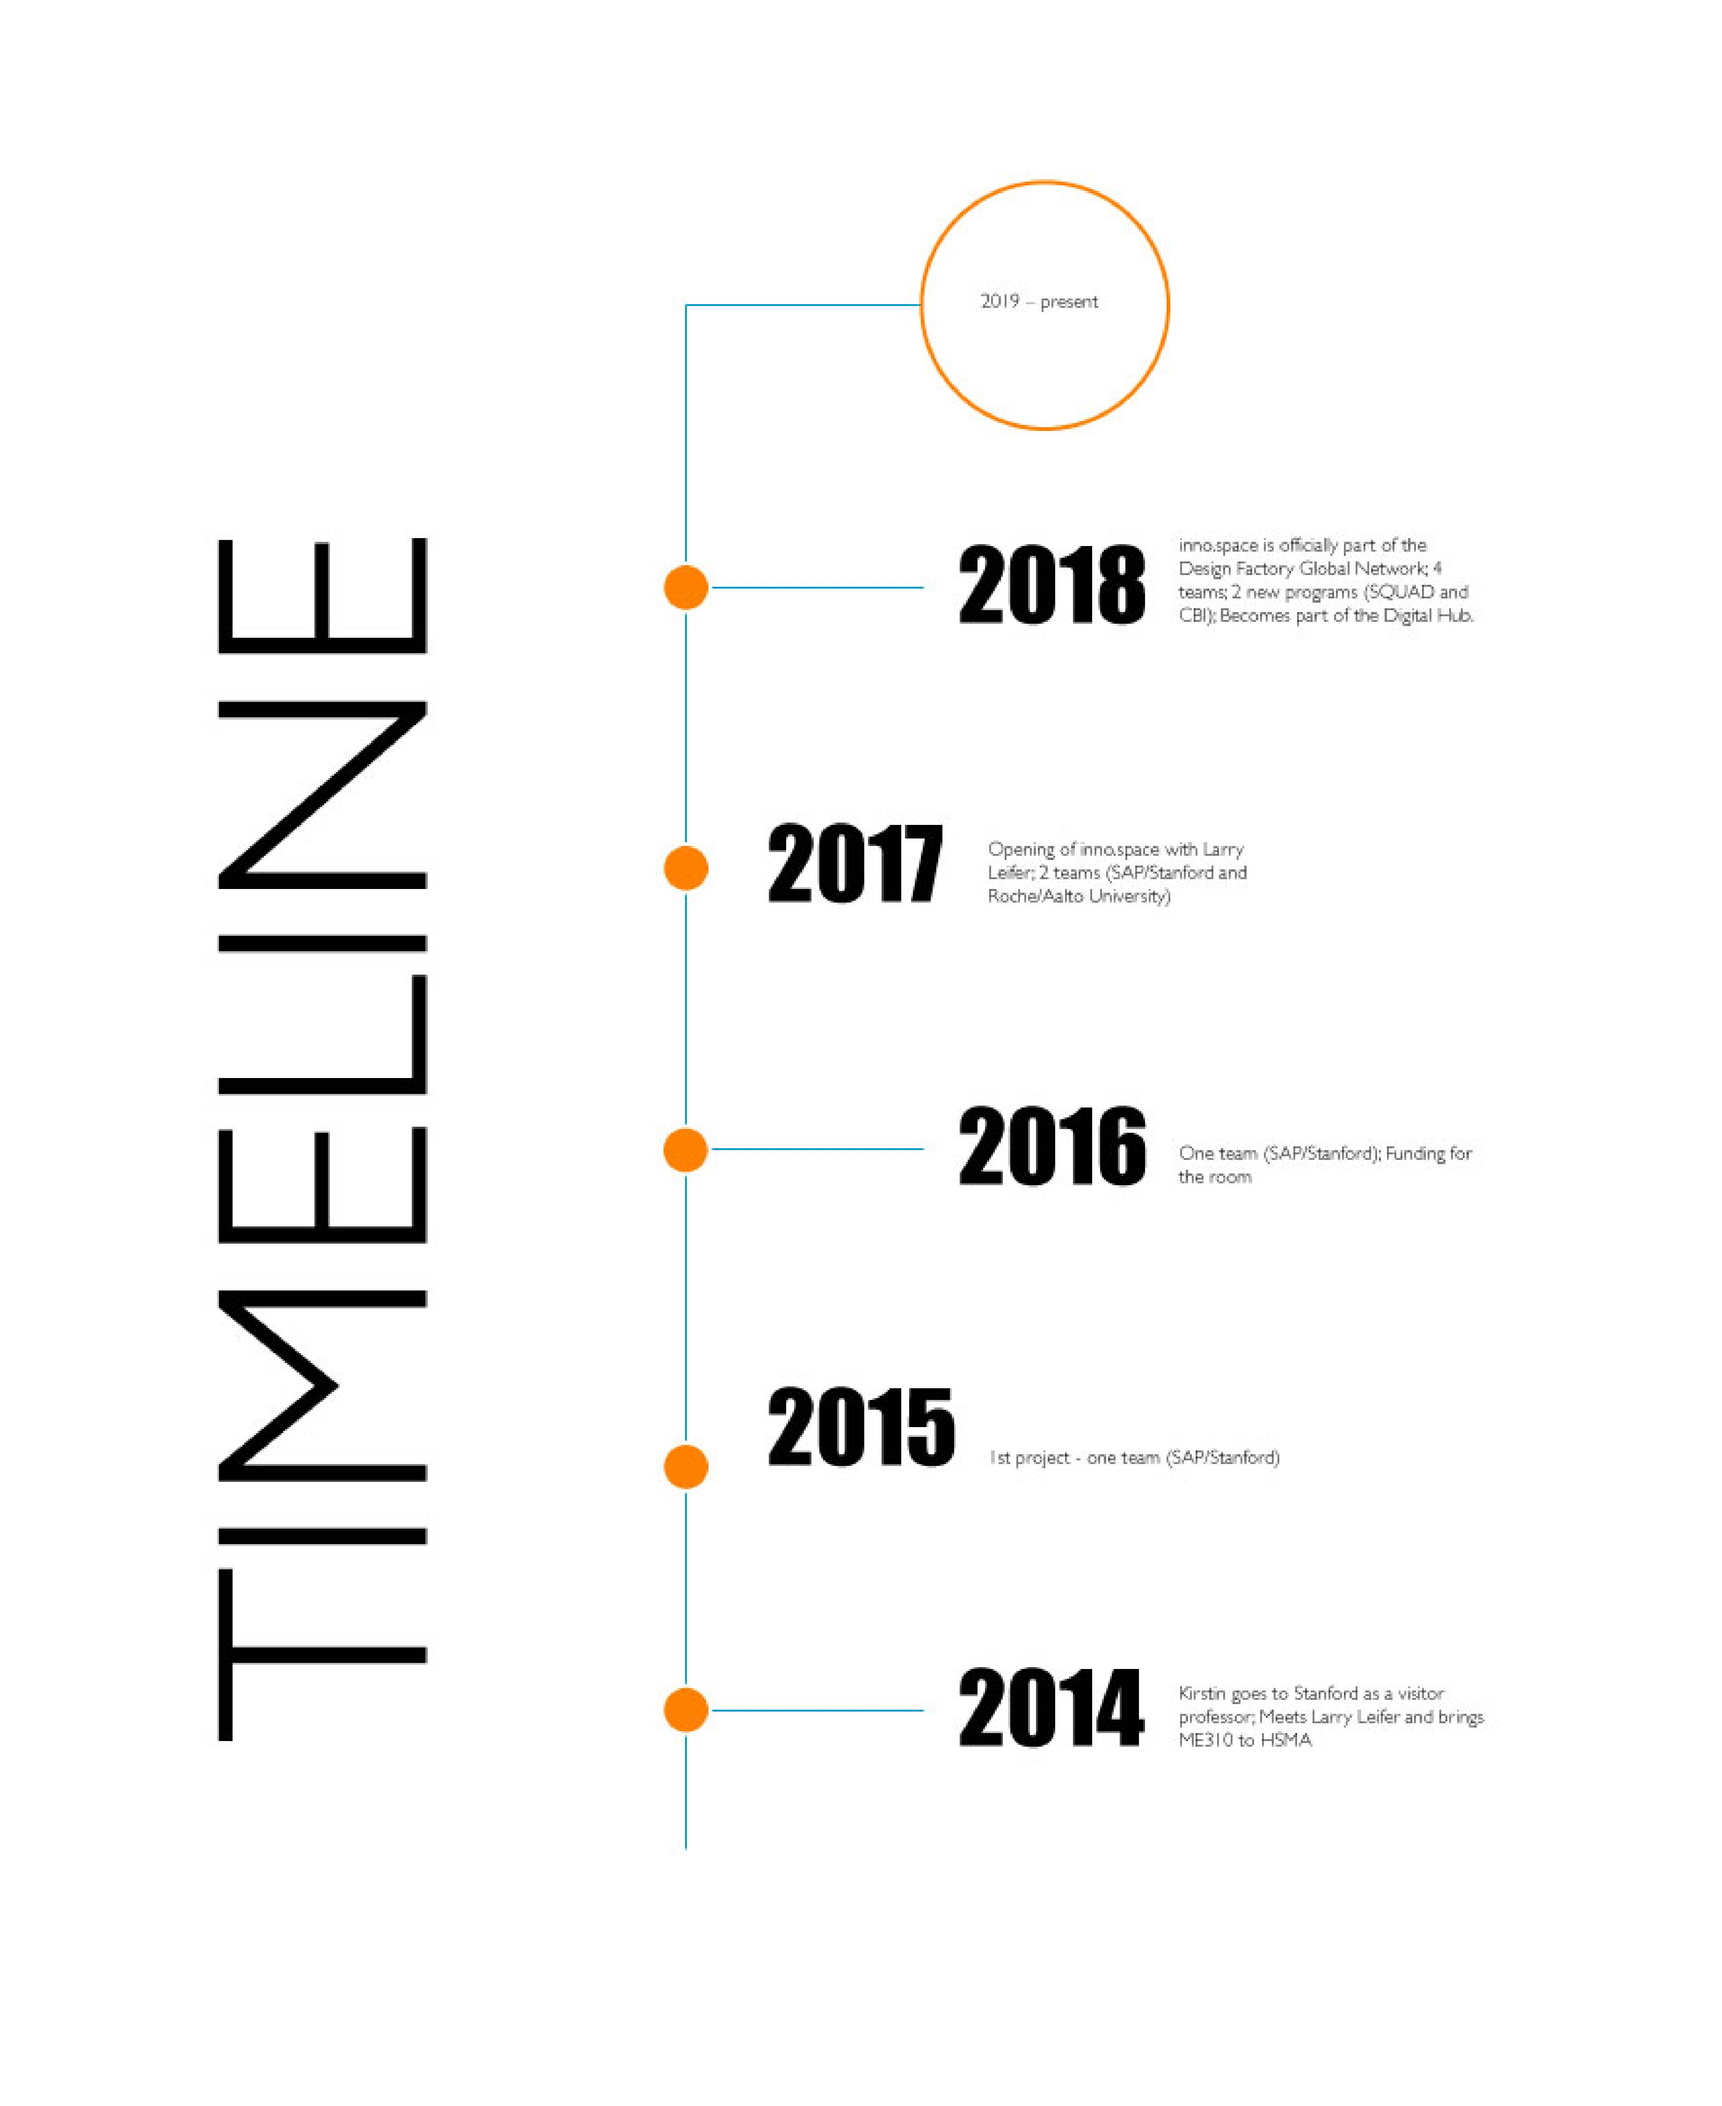
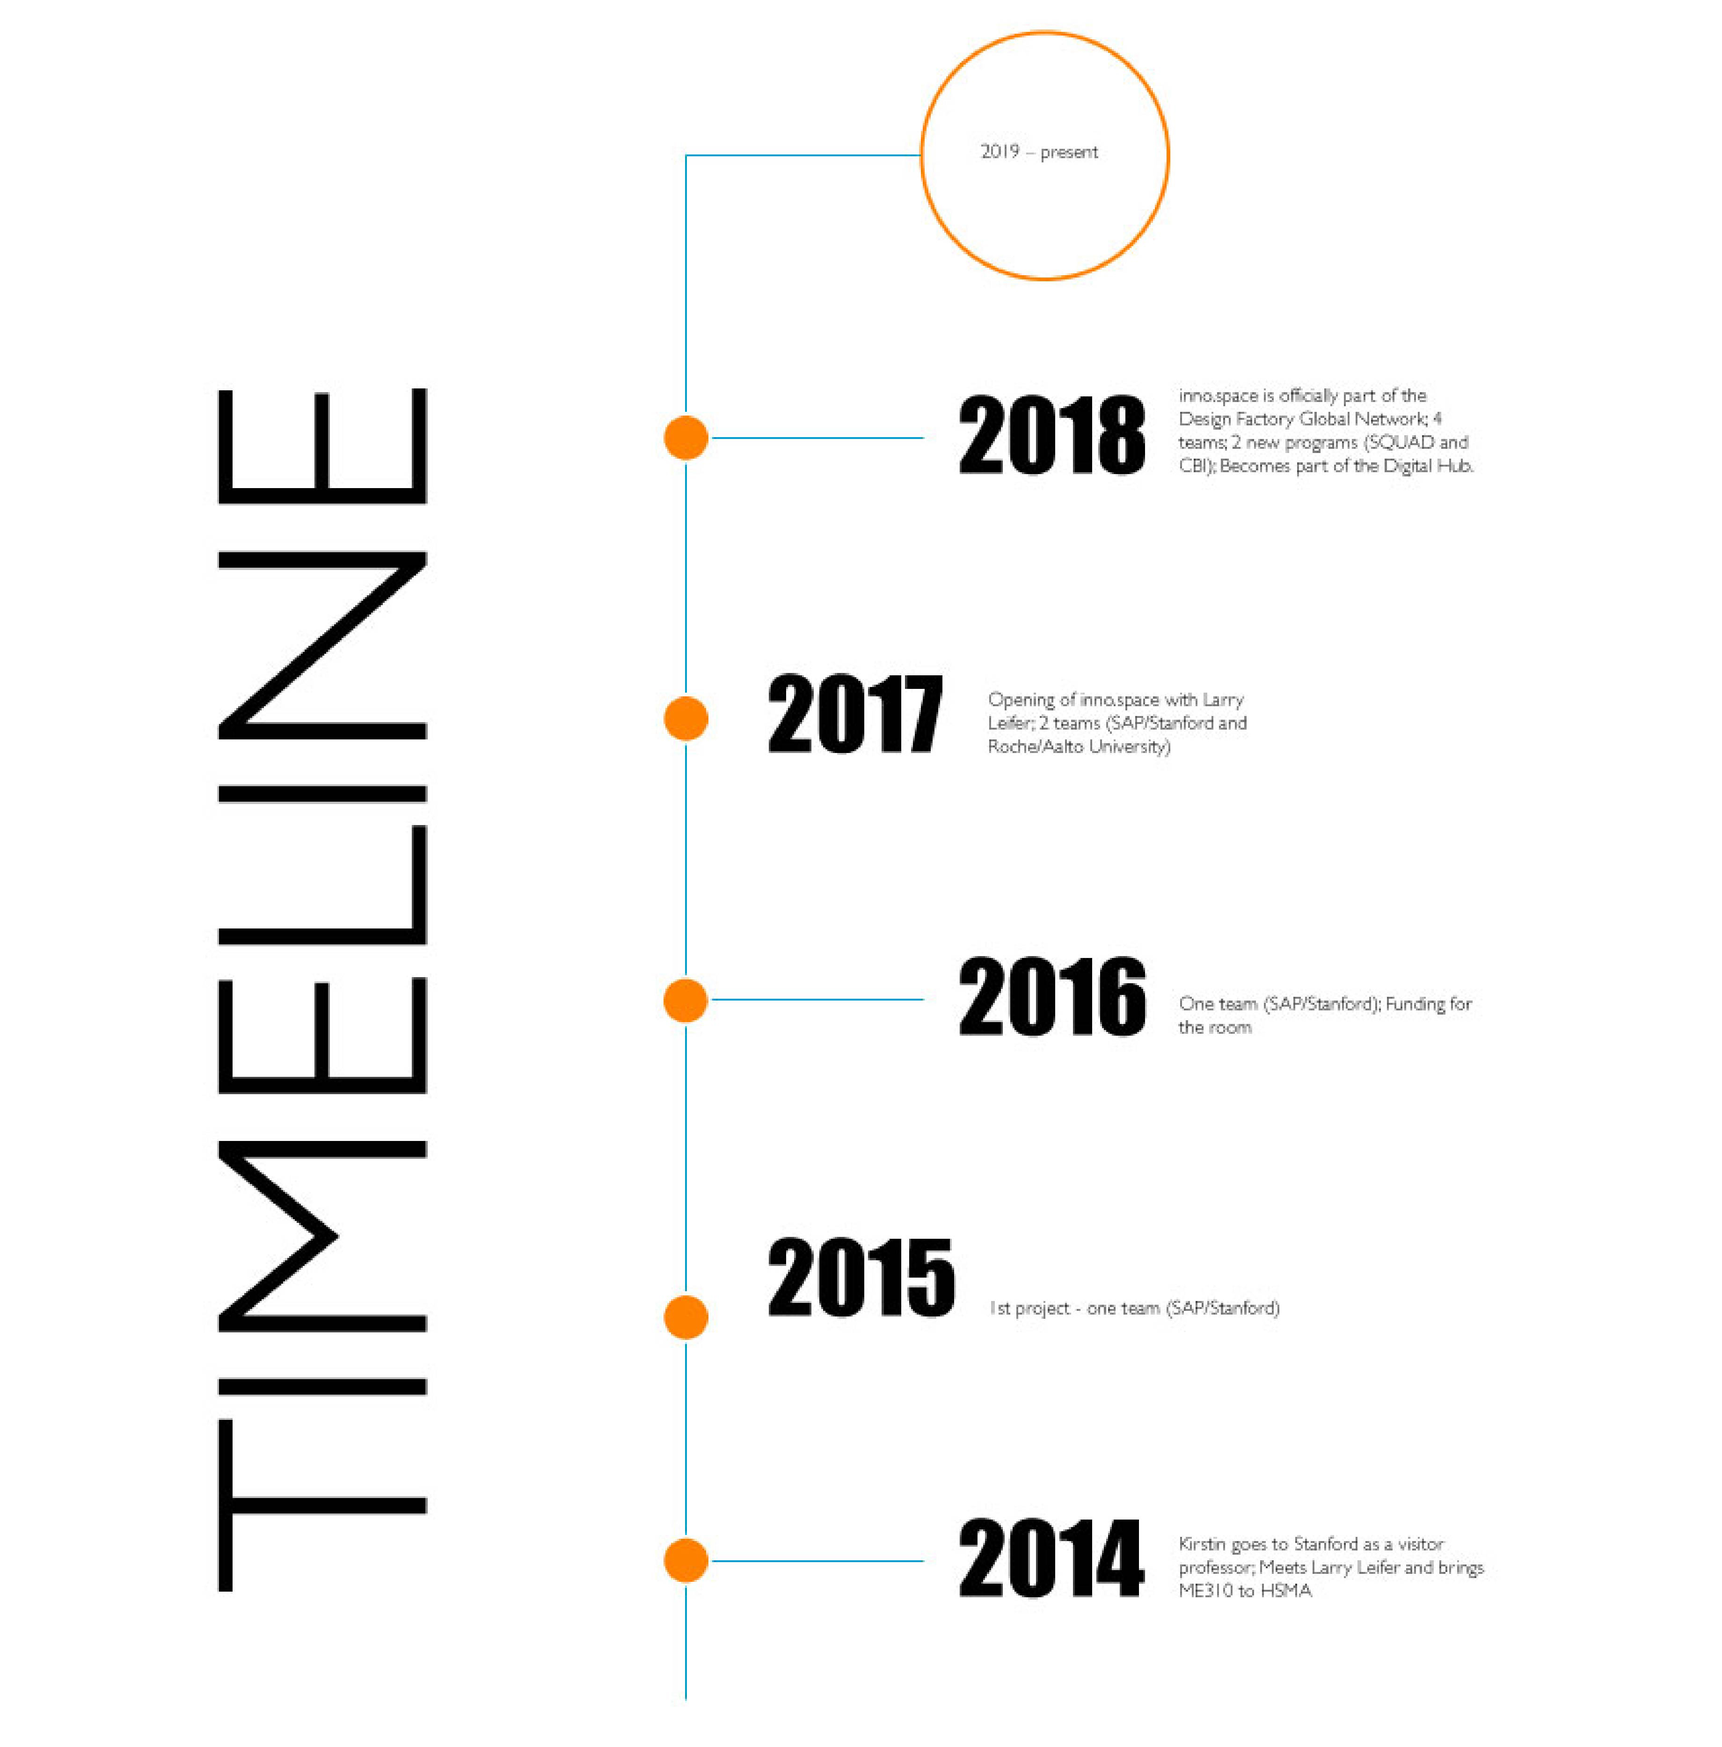
Updated about.html

diff --git a/about.html b/about.html
@@ -71,6 +71,34 @@ value_right:
       <h3>Our Mission</h3>
       <p>We work with partners from corporate organisations to develop projects that address real-world challenges. We support various educational concepts that foster complex problem-solving, innovation and entrepreneurship. The activities offered have the goal to unleash the creative potential of our students and educate them to become creative future-makers as well as leaders in entrepreneurial settings or in start-ups.  To be well prepared for the responsibilities and challenges in their professional life which we cannot foresee today.</p>
      
+      </div>
+      <!--
+    <div class='medium-6 columns'>
+      <h3>Our skills</h3>
+      <div class='mod modBarGraph'>
+        <ul class='bars'>
+          {% for skill in page.skills %}
+            <li>
+              <h4 style=''>
+                {{skill.title}}
+                <strong>{{skill.percentage}}%</strong>
+              </h4>
+              <p class='highlighted' data-percent='{{skill.percentage}}'></p>
+            </li>
+          {% endfor %}
+        </ul>
+      </div>
+    </div>
+      -->
+  </div>
+</div>
+
+<div class='full'>
+  <div class='row'>
+    <div class='medium-12 columns'>
+      
+      <img class="fadeinleft" alt="" src="images/timeline.jpg" />
+     
           <div class='two spacing'></div>
 
       </div>
